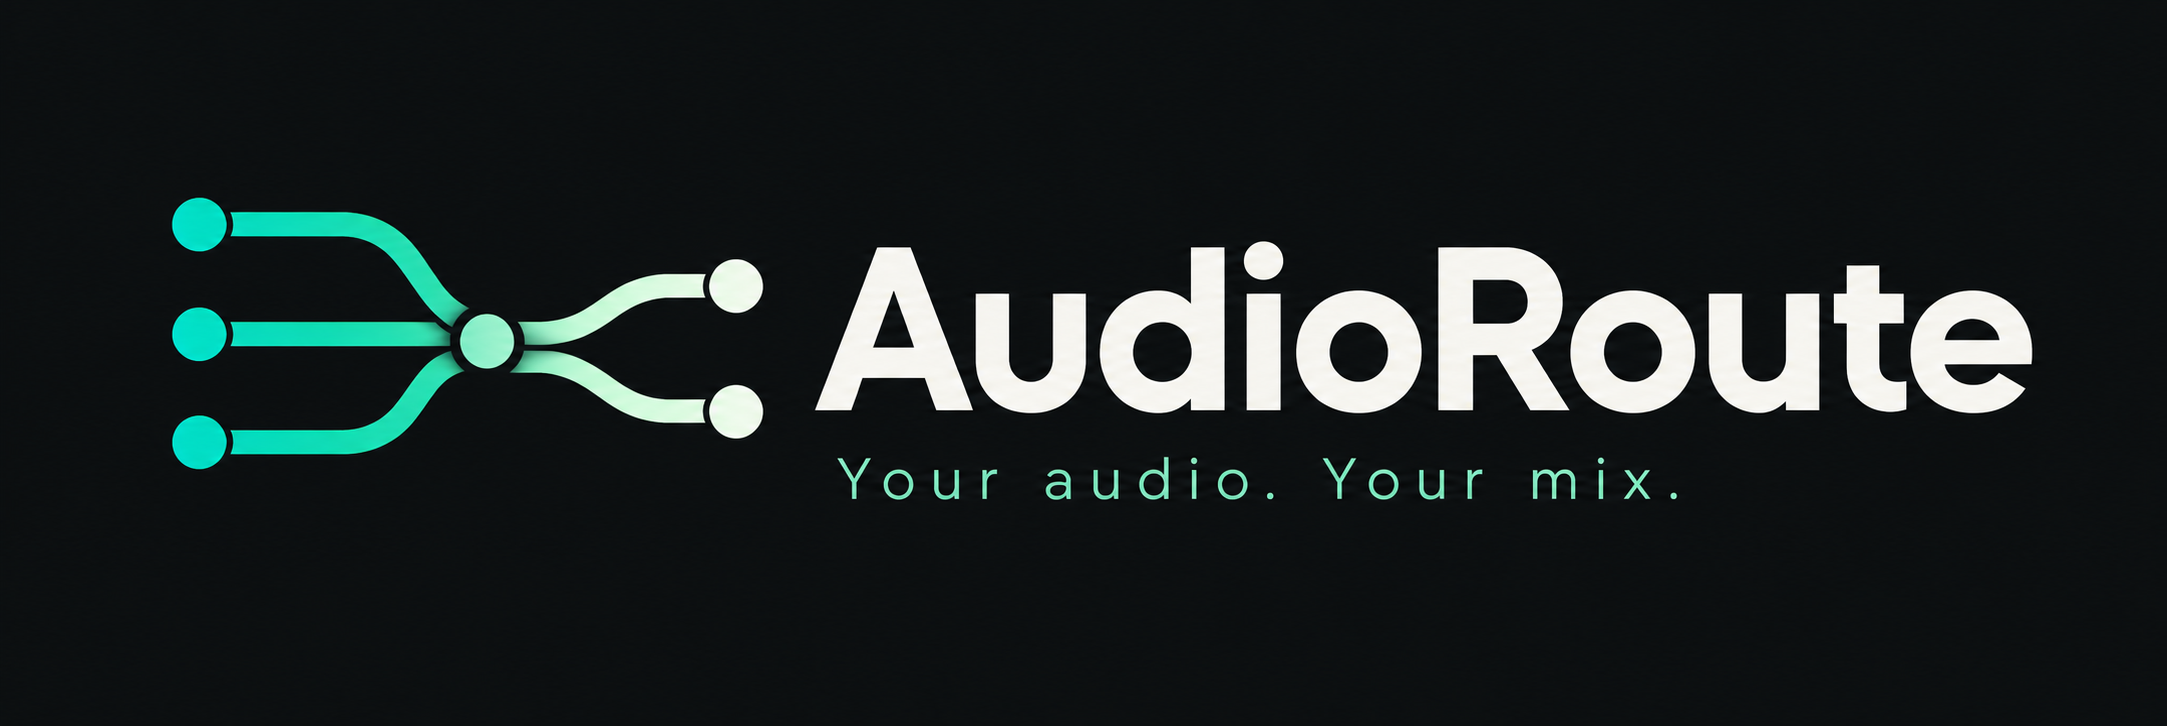
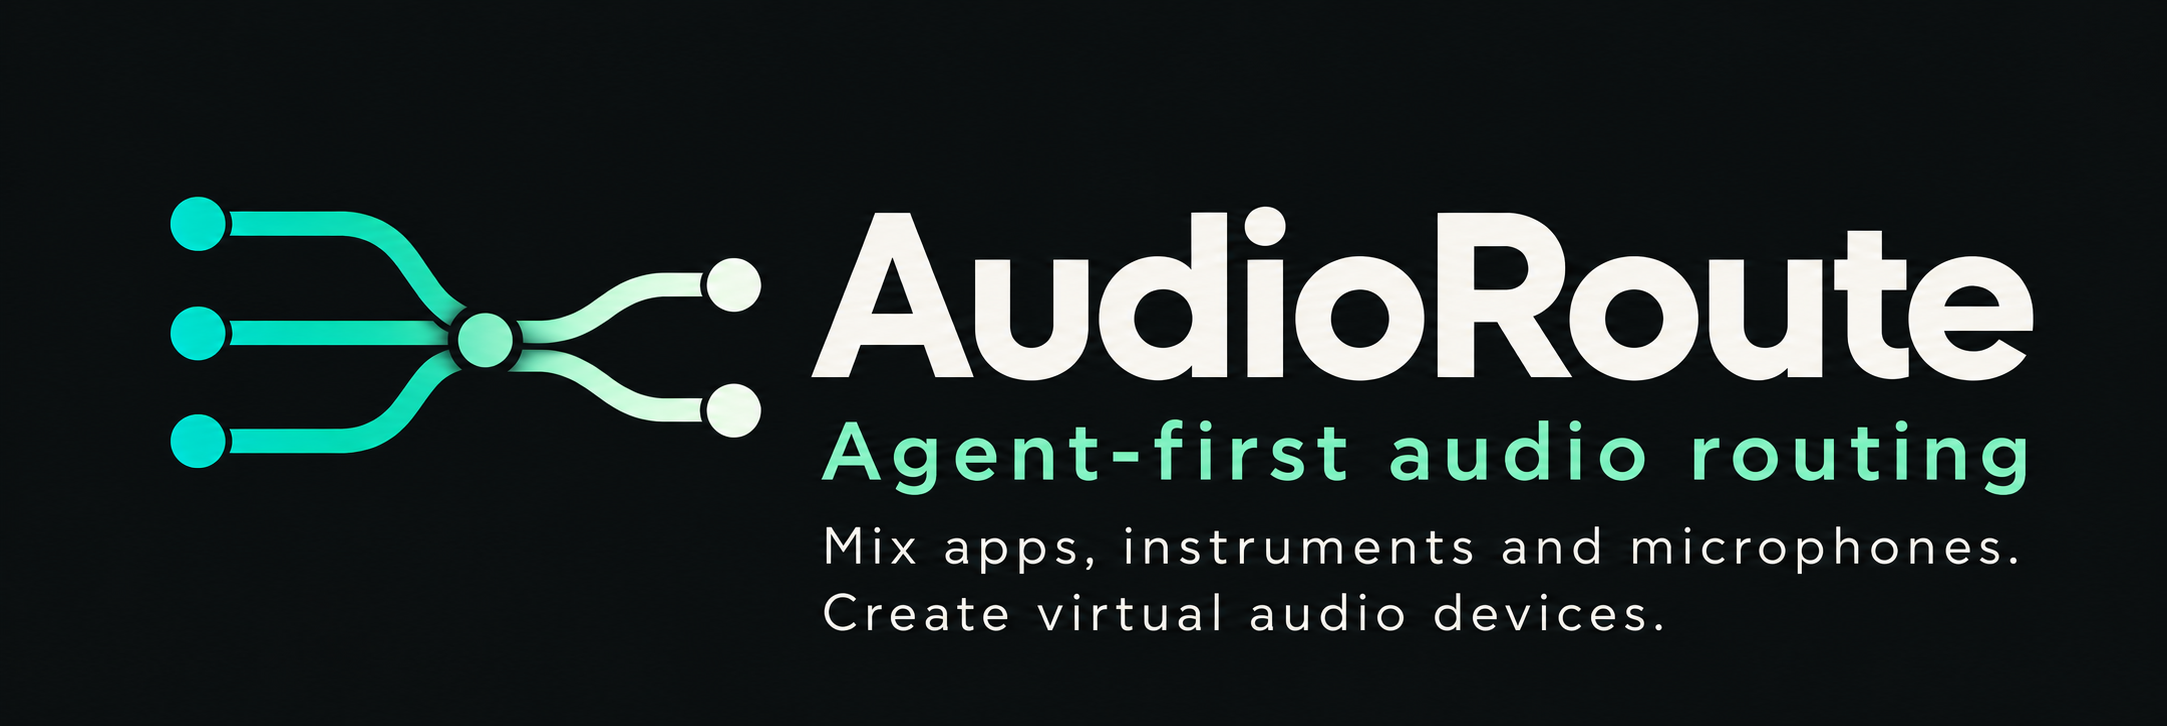
Align repository branding and agent-first header messaging

diff --git a/README.md b/README.md
@@ -1,5 +1,5 @@
 <p align="center">
-  <img src="assets/audioroute-header.png" alt="AudioRoute — Your audio. Your mix. Audio signal paths joining and branching into independent mixes." width="900">
+  <img src="assets/audioroute-header.png" alt="AudioRoute — Agent-first audio routing. Mix apps, instruments and microphones. Create virtual audio devices." width="900">
 </p>
 
 # AudioRoute — Mac audio routing for AI agents
@@ -10,7 +10,7 @@ Mix your guitar, microphone, and app audio into exactly what each listener needs
 
 Tell Codex, Claude Code, or another agent with terminal access what you want. You don’t have to start by writing a routing configuration.
 
-> **Development preview:** [v0.1.0-preview.1](https://github.com/tzvister/audio-router/releases/tag/v0.1.0-preview.1) includes a universal unsigned installer for testing. A signed, notarized installer has not been released yet. This repository is currently private; your agent needs access to it.
+> **Development preview:** [v0.1.0-preview.1](https://github.com/tzvister/AudioRoute/releases/tag/v0.1.0-preview.1) includes a universal unsigned installer for testing. A signed, notarized installer has not been released yet. This repository is currently private; your agent needs access to it.
 
 ## Start with your agent
 
@@ -19,7 +19,7 @@ Copy this into your agent, and change the setup to match yours:
 ```text
 Use AudioRoute to set up my Mac for a guitar lesson on Zoom.
 
-Project: https://github.com/tzvister/audio-router
+Project: https://github.com/tzvister/AudioRoute
 Read docs/agent-quickstart.md, then use the CLI's built-in help.
 
 My guitar is plugged into input 1 of my audio interface.
@@ -94,9 +94,9 @@ Application audio capture is also available for apps that don’t offer an outpu
 
 Requires **macOS 14.2 or later**. Universal binaries contain both Apple Silicon and Intel support; real-world Intel audio testing is still pending.
 
-**Today:** download the [developer preview](https://github.com/tzvister/audio-router/releases/tag/v0.1.0-preview.1) for evaluation, or build from source. The preview installer is unsigned and not notarized; macOS may block it under normal security settings. It is not the finished consumer install experience. An agent with access to the repository can follow the [source setup instructions](docs/development.md). That path requires Xcode and administrator approval to install the audio driver. It is not yet the intended one-download experience.
+**Today:** download the [developer preview](https://github.com/tzvister/AudioRoute/releases/tag/v0.1.0-preview.1) for evaluation, or build from source. The preview installer is unsigned and not notarized; macOS may block it under normal security settings. It is not the finished consumer install experience. An agent with access to the repository can follow the [source setup instructions](docs/development.md). That path requires Xcode and administrator approval to install the audio driver. It is not yet the intended one-download experience.
 
-**For the first signed release:** the planned flow is one `.pkg` from [GitHub Releases](https://github.com/tzvister/audio-router/releases), macOS Installer approval, a restart to load the driver, and:
+**For the first signed release:** the planned flow is one `.pkg` from [GitHub Releases](https://github.com/tzvister/AudioRoute/releases), macOS Installer approval, a restart to load the driver, and:
 
 ```sh
 audioroute setup --start

diff --git a/assets/README.md b/assets/README.md
@@ -5,3 +5,11 @@
 Prompt:
 
 > Use case: logo-brand. Create a polished horizontal GitHub README header logo for AudioRoute, a macOS audio routing tool directed by coding agents. Wide 3:1 landscape banner. Clean near-black charcoal background; sophisticated luminous mint/teal and soft ivory palette. On left, a bold memorable abstract mark of three smooth audio signal paths joining into a central junction then branching into two independent outputs, hint of an A monogram, precise rounded strokes and small endpoint dots, readable at small scale. Beside it, beautifully kerned modern geometric sans-serif wordmark, exact text 'AudioRoute' in ivory. Under the wordmark small restrained text 'Your audio. Your mix.' Generous negative space and balanced alignment. Premium music software identity, crisp flat graphic with only subtle soft color accents. No mockup, no 3D, no photographic texture, no extra text, no watermark. Finished professional header image.
+
+## Updated header
+
+Edited with the built-in image generation tool and saved as `audioroute-header.png`.
+
+Prompt:
+
+> Edit the supplied AudioRoute GitHub header image. Preserve its polished near-black background, mint/teal/ivory palette, distinctive three-input/two-output routing symbol, and bold AudioRoute wordmark. Replace the existing 'Your audio. Your mix.' tagline and recompose the typography with generous clear spacing to include these exact three lines below the wordmark: 'Agent-first audio routing' (prominent mint subtitle); 'Mix apps, instruments and microphones.' (smaller crisp ivory supporting text); 'Create virtual audio devices.' (same supporting text style). Keep the image a wide horizontal GitHub README banner, professional minimalist music software brand. Preserve readable text at README width, do not cram, use a slightly taller banner if needed. Only the specified text, no extra labels, no watermark. Keep logo and AudioRoute title visually dominant, supporting text clean and well aligned.

diff --git a/docs/releasing.md b/docs/releasing.md
@@ -4,7 +4,7 @@ The release artifact is one universal `.pkg` containing `/usr/local/bin/audiorou
 
 ## Current readiness
 
-Universal payload and unsigned installer assembly have been tested locally. The package was expanded and inspected without installation. Developer ID signing, notarization, a fresh-machine installation, and Intel audio behavior remain unverified. Do not publish the unsigned package as a trusted release. The repository is [tzvister/audio-router](https://github.com/tzvister/audio-router) and is private. Apple signing credentials have not been configured.
+Universal payload and unsigned installer assembly have been tested locally. The package was expanded and inspected without installation. Developer ID signing, notarization, a fresh-machine installation, and Intel audio behavior remain unverified. Do not publish the unsigned package as a trusted release. The repository is [tzvister/AudioRoute](https://github.com/tzvister/AudioRoute) and is private. Apple signing credentials have not been configured.
 
 ## Build and inspect locally
 

diff --git a/docs/development.md b/docs/development.md
@@ -5,8 +5,8 @@ This is the developer-preview path. Ordinary users are intended to install a sig
 Requires macOS 14.2 or later and Xcode with its command-line tools selected.
 
 ```sh
-git clone https://github.com/tzvister/audio-router.git
-cd audio-router
+git clone https://github.com/tzvister/AudioRoute.git
+cd AudioRoute
 scripts/build.sh
 scripts/test.sh
 ```
